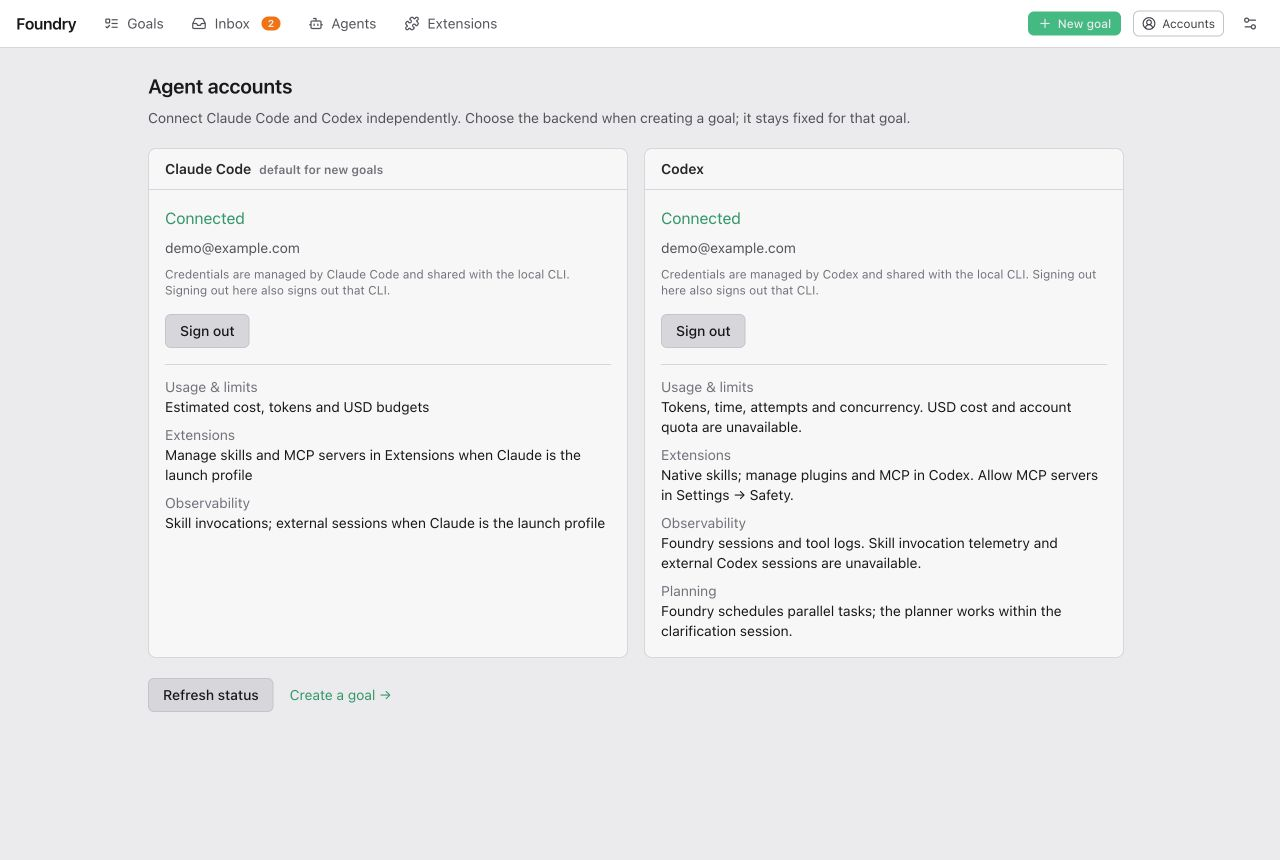
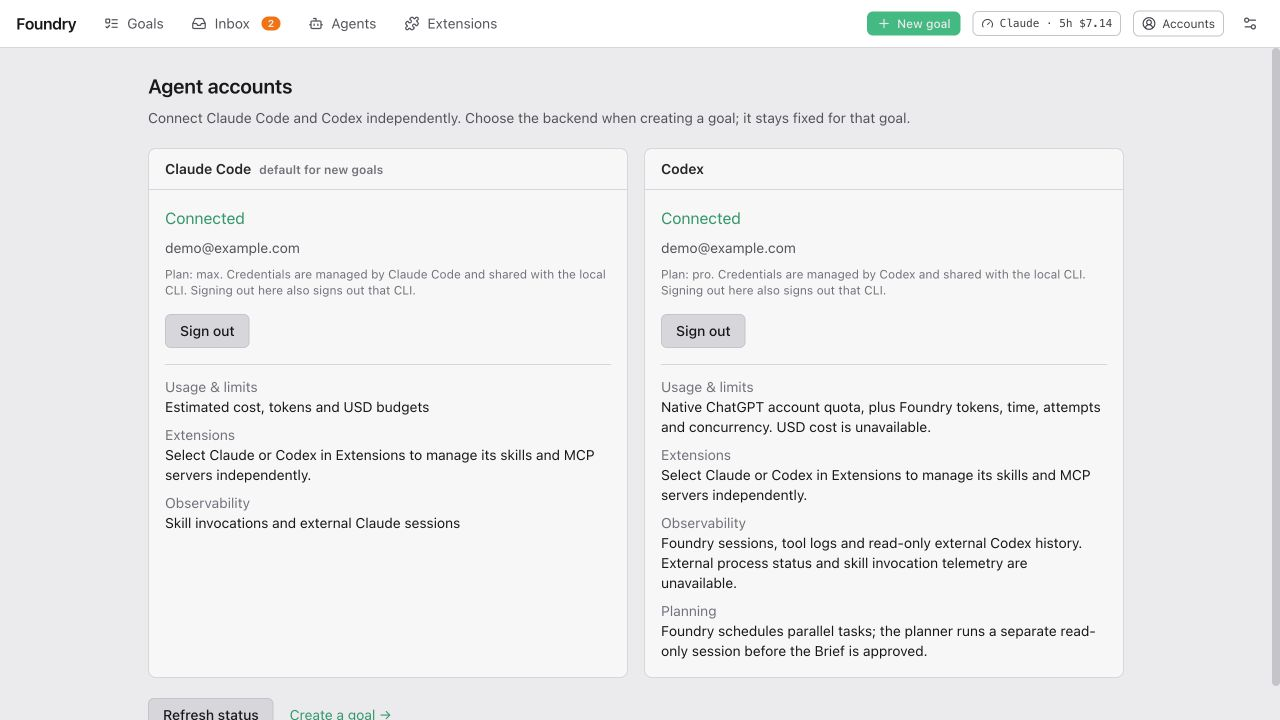
docs: document provider extensions and native account status
Explain independent setup, ChatGPT-only sign-in, account quota and read-only session history with bilingual guides, updated screenshots and remaining adapter limits.

diff --git a/CONTEXT.md b/CONTEXT.md
@@ -15,10 +15,10 @@ A user-set objective stated in natural language against a repository. A Goal is 
 The smallest unit of work carved out of a Goal during Clarify. Tasks form a DAG through `dependsOn` edges. A Task with no unfinished dependencies is *ready*. Fan-out, fan-in and pipeline are not separate concepts — they are shapes of the DAG.
 
 **Attempt**
-One Plan → Act → Observe pass at a Task, performed in a fresh Claude session. An Attempt is made of several sessions — the Worker's segments, the Task reviewer, possibly a Merger — each recorded with its model, cost and turns. A *retry* is simply the next Attempt, fed with the previous Attempt's Observation Report — unless the session can simply carry on (see Continuation). A **Merge Attempt** is an Attempt whose only job is to resolve a merge conflict between two Tasks.
+One Plan → Act → Observe pass at a Task, performed in a fresh session of the Goal's Agent backend. An Attempt is made of several sessions — the Worker's segments, the Task reviewer, possibly a Merger — each recorded with its model and the measurements its backend provides. A *retry* is simply the next Attempt, fed with the previous Attempt's Observation Report — unless the session can simply carry on (see Continuation). A **Merge Attempt** is an Attempt whose only job is to resolve a merge conflict between two Tasks.
 
 **Continuation**
-The next segment of the same Attempt: its Claude session is resumed with everything it already knows, instead of a fresh session that must understand the Task again. The engine continues an Attempt when its session was cut (engine restart, turn or cost cap, timeout) or when the Checks still fail but the segment made progress; a Continuation consumes no retry, and an Attempt is continued at most a few times before a genuine new Attempt (fresh session, Observation Report) takes over. A Merge Attempt's second try is a Continuation of its first.
+The next segment of the same Attempt: its session is resumed by the same Agent backend with everything it already knows, instead of a fresh session that must understand the Task again. The engine continues an Attempt when its session was cut (engine restart, an applicable session cap, timeout) or when the Checks still fail but the segment made progress; a Continuation consumes no retry, and an Attempt is continued at most a few times before a genuine new Attempt (fresh session, Observation Report) takes over. A Merge Attempt's second try is a Continuation of its first.
 
 **Follow-up**
 A Goal that continues an earlier, finished Goal of the same repository: B *follows* A, and A is *followed by* B; chains are allowed (A → B → C). A Follow-up is given what A asked for, what was understood and decided, and how it ended, as background for its Clarify; that background is copied when the Follow-up is created, so it survives A being deleted. It starts from the base branch when A's work is already there, otherwise from A's Goal branch — then A's changes travel in B's Delivery. A Goal can also be marked as a Follow-up afterwards, which records the relationship and nothing else.
@@ -35,7 +35,7 @@ The system never invents scope on its own: a Stretch Check exists only because t
 The evidence gathered after an Attempt acts: the results of the Task's Checks, the reviewer's verdict, and the list of changed files. The distilled form handed to the next Attempt is the **Observation Report**.
 
 **Reviewer**
-A Claude session that reads a diff and judges it. The *Task reviewer* is lightweight and reports blockers only; the *Goal reviewer* judges the whole Goal diff against the Must and Stretch Checks. Reviewer verdicts never override objective Check results.
+A session of the Goal's Agent backend that reads a diff and judges it. The *Task reviewer* is lightweight and reports blockers only; the *Goal reviewer* judges the whole Goal diff against the Must and Stretch Checks. Reviewer verdicts never override objective Check results.
 
 ## Clarify
 
@@ -76,7 +76,7 @@ The only way the system ever asks a human for anything after the Brief is approv
 1. a Task exhausted its retry budget with Must Checks still failing (including a failed Goal review);
 2. an action that would leave the local workspace (push, pull request, deploy, shared database, paid service);
 3. the Goal's cost or time budget was exceeded;
-4. the Claude runtime refused a tool call;
+4. the agent runtime refused a tool call;
 5. a Milestone landed and the Goal waits for the human to look (a Checkpoint);
 6. a Delivery stopped (failing checks it cannot fix, a rejected push, …), answered by retrying the Delivery or marking it delivered.
 
@@ -94,13 +94,13 @@ A push message sent to a Notification Channel the moment something happens the u
 A place outside the app where Notifications are sent — Telegram or Discord — configured by the user in Settings. Sending is the engine acting under the user's standing authorisation, exactly like Delivery: the model never sends anything.
 
 **Sign-in**
-How the engine gets a Claude session for its own machine. Normally the CLI opens a browser and finishes by itself; where there is no browser (a container, a remote host) it shows a link and a code instead, and the user pastes that code into the Setup page. The engine never sees the password or the token — Claude Code stores the credential.
+Authorising one Agent backend on the machine running Foundry. Each backend uses its native CLI login and owns its credentials independently. Claude can complete in a browser or accept a returned code in Foundry; Codex uses ChatGPT device authorisation, with the displayed code entered on the linked sign-in page. Codex API-key login is unsupported. Signing out also signs out that local CLI, without changing the other backend's account.
 
 **Boundary**
 The line between the local workspace and the outside world. Crossing it is always an Escalation.
 
 **Budget**
-The limits a Goal runs within: estimated cost, elapsed time, concurrent sessions, and Attempts per Task. Exceeding one is an Escalation, not a failure. Cost and time limits may be *unlimited*.
+The limits a Goal runs within: elapsed time, concurrent sessions, Attempts per Task and, where the backend reports it, estimated dollar cost. Exceeding one is an Escalation, not a failure. Cost and time limits may be *unlimited*. Codex has no enforceable dollar budget.
 
 **Budget Preset**
 How a Goal's Budget was chosen: *Auto* (no cap while clarifying; the Brief's estimate proposes the budget and the user confirms or edits it when approving), *Quick*, *Thorough*, *Unlimited*, or *Custom*. Auto is the default because most people cannot say in advance what a goal should cost — the estimate is the model's job.
@@ -156,7 +156,7 @@ simple, standard or complex — the Clarifier's rating of a Task, the human's to
 _Avoid_: routine / normal / hard (the first names) The last Attempt of a budget of two or more, and every Attempt the human grants beyond the budget, run on the Complex row before the Task is handed back.
 
 **Model Preset**
-A named choice of model for every action — Clarify, Planner, Simple / Standard / Complex tasks, merges, reviews, docs, triage, hints, style samples — with one table per goal nature (Code, Docs & research, Media). Claude and Codex have independent presets. Four ship for each provider (Max, Production, Balanced, Economy); they can be edited and reset, and custom presets can be added. Settings picks defaults per nature; a Goal may pick another at creation. Claude sessions read the current preset when they start. Codex captures model and reasoning effort for every role, including Housekeeping, with its fallback order when the Goal is created; later preset edits do not alter it. A goal-wide Codex effort overrides role efforts. Default model and CLI-default effort deliberately follow the native configuration.
+A named choice of model for every action — Clarify, Planner, Simple / Standard / Complex tasks, merges, reviews, docs, triage, hints, style samples — with one table per goal nature (Code, Docs & research, Media). Claude and Codex have independent presets. Four ship for each provider (Max, Production, Balanced, Economy); they can be edited and reset, and custom presets can be added. Settings picks defaults per nature; a Goal may pick another at creation. Claude sessions read the current preset when they start. Codex captures model and reasoning effort for every role, including Housekeeping, with its fallback order when the Goal is created; later preset edits do not alter it. A goal-wide Codex effort overrides role efforts. The Settings base model is resolved at creation; a remaining CLI-default model or effort follows native configuration.
 _Avoid_: strong / worker / cheap model, tier (the model tiers Presets replaced)
 
 **Interview**
@@ -174,7 +174,7 @@ A source the system consults to decide which parts of a repository are relevant 
 ## Skills
 
 **Skill**
-A packaged instruction set Claude Code can load (a `SKILL.md` directory). Foundry does not define skills; it sees the ones installed on the host, installs curated ones from its Catalog, and tells its Roles which to use.
+A packaged instruction set an Agent backend can load (a `SKILL.md` directory). Foundry does not define skills; it sees the supported skills installed for the selected backend, installs curated ones from its Catalog, and tells its Roles which to use.
 
 **Skill Source**
 Where an installed Skill comes from and who updates it: a GitHub repository managed by Foundry, by the community `skills` CLI, or by a Claude Code plugin; a gstack clone; a project directory; or a hand-installed copy whose origin is inferred by matching its contents against known sources. Skills of the same Source are updated together; a Skill whose bytes match an older version of its Source is *outdated*, one that matches no version is *modified*.
@@ -183,7 +183,7 @@ Where an installed Skill comes from and who updates it: a GitHub repository mana
 A user-level Skill that has the same name as a Skill provided by a plugin. Both load; prompts use the plugin's copy because it is the one that gets updated. Shadow copies are reported and can be moved to the trash in one click.
 
 **Workflow Skill**
-A Skill a Role is told to invoke for a kind of work — *must* or *prefer* — because the engine follows Matt Pocock's engineering workflow: `tdd` for features and refactors, `diagnosing-bugs` for bugs, `resolving-merge-conflicts` for the Merger, `code-review` for the Goal Reviewer. The engine records which Skills each session actually invoked; a missing mandated invocation is a note for the next Attempt, never a failure on its own.
+A Skill a Role is told to follow for a kind of work — *must* or *prefer* — because the engine follows Matt Pocock's engineering workflow: `tdd` for features and refactors, `diagnosing-bugs` for bugs, `resolving-merge-conflicts` for the Merger, `code-review` for the Goal Reviewer. Claude invocation telemetry records which Skills a session invoked; a missing mandated invocation is a note for the next Attempt, never a failure on its own. Codex reads native skill instructions without invocation telemetry, so compliance is assessed from the work and tests rather than a missing event.
 
 **Task Kind**
 The nature of a Task — feature, bug, refactor, research or chore — set in the Brief. It selects the Workflow Skills the Worker is asked to follow.
@@ -195,32 +195,32 @@ The area a Task works in — frontend, backend, fullstack, data, mobile, infra, 
 The one design skill set the engine hands to UI work (frontend / fullstack Scenarios): ui-ux-pro-max, Anthropic's frontend-design, impeccable, bencium, garden or taste — or none. Packs are mutually exclusive: the Worker gets the chosen pack as a MUST and the Goal Reviewer its review counterpart; the others stay invisible even when installed.
 
 **Project Skills**
-Skills matched to a repository's own stack (React, Tailwind, Supabase…) that autoskills installs into a Goal's workspace after the Brief is approved. They live in the workspace's `.claude/skills`, are git-excluded so they never reach a commit, and are listed to every Worker of that Goal. An empty repository has no stack to detect yet, so the install is retried after each Task lands until a stack manifest exists.
+Skills matched to a repository's own stack (React, Tailwind, Supabase…) that autoskills installs into a Goal's workspace after the Brief is approved. They use the Goal's native skill location (`.claude/skills` for Claude or `.agents/skills` for Codex), are git-excluded so they never reach a commit, and are copied into task workspaces and listed to every Worker of that Goal. An empty repository has no stack to detect yet, so the install is retried after each Task lands until a stack manifest exists.
 
 **Model Registry**
-What this machine has learned about model names: which id a requested name (`fable`, `opus`, a pinned id) resolved to, and when it last worked or failed. Learned from sessions, never hard-coded; a new model family is listed once it has been used (or tested) here.
+What this machine has learned about a backend's model names: native catalog entries, which id a requested name resolved to, and when it last worked or failed. A discovered model is not proof of account access; an explicit Test checks a model by running a session.
 
 **Fallback**
 What the engine does when a session's model is unavailable: re-run the same session with the next model of the configured chain and remember the replacement on the Goal, so its later sessions skip the dead model; only when the whole chain fails does the Goal escalate.
 
 **Housekeeping model**
-The model of the engine's one-turn chores — classifying a Goal's nature, summarising a log, probing the usage limit. The only model not set by a Model Preset.
+The model of the engine's short chores — classifying a Goal's nature or summarising a log. Claude has a separate Housekeeping setting, also used for its usage probe. Codex includes Housekeeping in its Model Preset; reading Codex account quota requires no model session.
 _Avoid_: cheap tier, cheap model
 
 **Effort**
-How hard every session of a Goal thinks, from low to max — a knob of the Claude runtime, chosen when the Goal is created (or its Settings default). Independent of which model runs.
+The requested reasoning strength of a session. Supported values depend on the backend and model. A Goal-wide choice overrides each role's setting; Codex can instead use the efforts captured in its Model Preset, with a role's CLI default delegated to native configuration.
 
 **Simple mode**
 A Goal viewed by someone who does not want the machinery: one plain-language Brief (what the system understood, what it will build, the questions only they can answer, the assumptions they can veto, the price) and a progress view (how far, what it costs, what needs them). The engine underneath is the same; Expert view — every control — is one click away on any Goal, and a Goal's mode is just which view it opens in.
 
 **Discipline**
-How hard the engine pushes an engineering practice on its sessions. For TDD: *required* (the Worker must invoke the skill and the Reviewer is told when it did not), *preferred* (suggested only), or *off* (never mentioned). Set per Goal, overridable per Task; Tasks in the docs, infra, research, image or video Scenarios never carry a TDD mandate, and the TDD rules only apply to feature and refactor Tasks. Simple-mode Goals start with *preferred*.
+How hard the engine pushes an engineering practice on its sessions. For TDD: *required* (the Worker must follow the skill), *preferred* (suggested only), or *off* (never mentioned). Claude's Reviewer can also receive missing-invocation evidence; Codex is judged from the work and tests because invocation telemetry is unavailable. Set per Goal, overridable per Task; Tasks in the docs, infra, research, image or video Scenarios never carry a TDD mandate, and the TDD rules only apply to feature and refactor Tasks. Simple-mode Goals start with *preferred*.
 
 **Settings**
 The engine's user-editable configuration: concurrency, models, session caps, workflow profile, Design Pack, autoskills, review and delivery defaults, tools, safety limits. A saved value beats an environment variable, which beats the default; most changes apply immediately, a few only after the engine restarts.
 
 **MCP Server**
-A program that gives Claude Code extra tools (library docs, a browser, web search, a mail account). Foundry sees the ones configured on the host (the user's own, those a plugin ships, claude.ai connectors), installs curated ones from its MCP catalog at the user's scope, and lets a Goal use only the servers the user **allowed in goals**, and only in the sessions that do the work.
+A program that gives a coding agent extra tools (library docs, a browser, web search). Each backend owns its native configuration and independent Allowed in goals policy. Foundry manages Claude servers/connectors and Codex user-configured stdio/HTTP servers through their respective native clients. Only work-performing sessions receive the selected backend's allowed prefixes.
 
 ## Goal natures
 
@@ -263,21 +263,21 @@ Re-indexing the knowledge graph (graphify, and gitnexus when installed) where th
 The one blocking Question a Brief carries when the repository is empty: there are no facts to discover, so the stack is the human's Decision. It offers 2–4 concrete options with the Clarifier's recommendation first; the plan assumes the recommendation, and the first Task scaffolds the chosen stack.
 
 **Usage Pause**
-The engine's reaction to a Claude usage limit (5-hour or weekly window): no new sessions start, Goals stay exactly where they are, and everything resumes by itself when the limit resets — surviving engine restarts. Visible as a banner and on the Usage page; never an Escalation.
+The engine's reaction to one backend's usage limit: no new sessions start on that backend while its Goals keep their state. Other backends can continue. A reported reset schedules the next retry; without one, Codex retries after a short delay that does not claim the account has recovered. The pause survives engine restarts and is visible as a banner and on the Usage page; it is never an Escalation.
 
 ## Agents monitor
 
 **Agent Session**
-One Claude Code process's conversation on this machine, headless or interactive — whoever started it. The Agents page shows every Agent Session, read live from what Claude Code itself records; Foundry stores nothing about them.
+One agent conversation on this machine, headless or interactive — whoever started it. The Agents page combines Foundry's own session state with recent native Claude and Codex history, labels the backend and bounds the number of records. External history is read without resuming or modifying the session.
 
 **Session Source**
 Who started an Agent Session: *Foundry* (the engine spawned it for a Goal) or *external* (the user opened it themselves — terminal, VS Code, elsewhere). Only Foundry-sourced sessions can be stopped from the Agents page; external ones are watched, never touched.
 
 **Session Status**
-*Busy* — the session produced output within the last minute (a Foundry in-flight session is always busy). *Idle* — the process is alive but waiting for input. *Finished* — the process is gone; the session stays visible for a day. The header counts only busy sessions, so it is quiet when nothing is working.
+*Busy* — the session produced output within the last minute (a Foundry in-flight session is always busy). *Idle* — the process is alive but waiting for input. *Finished* — the process is gone; the session stays visible for a day. *Unknown* — native history cannot establish the external process's liveness, as with external Codex sessions and their children; recent activity or a completed turn does not prove the process is running or finished. The header pill counts only known busy sessions.
 
 **Subagent**
-A helper agent a session spawns for a sub-task (the Task tool). It has its own conversation and its own context window, and is shown nested under the session that spawned it.
+A helper agent a session spawns for a sub-task. It has its own conversation and is shown nested under the session that spawned it when the native history identifies that relationship. External Codex children can be read with unknown liveness; native Codex delegation remains disabled in Foundry-managed sessions.
 
 ## Release & update
 
@@ -301,3 +301,6 @@ The fallback when Self-Update is impossible: a popup with the exact commands for
 
 **Drain**
 Refusing new sessions while active Agents finish, so an update never kills running work. The human may override and update immediately.
+
+**Account quota**
+The native account’s reported allowance and usage windows, including activity outside Foundry. Separate from Foundry’s local token totals. Unknown is not zero; a percentage or reset timestamp does not prove that another session is allowed.

diff --git a/docs/operate/codex.md b/docs/operate/codex.md
@@ -49,9 +49,9 @@ Saved settings override the corresponding environment defaults. Binary and home 
 
 - Readers and reviewers use the read-only sandbox; workers use workspace-write. Workers can access the network for dependency installation and tests. Foundry's own checks and delivery still run on the host.
 - Foundry supplies a session canary and a tool hook that checks the existing push/PR/deploy/publish boundary, the MCP allowlist and read-only roles. The runner waits for the canary and fails if it never appears. `--dangerously-bypass-hook-trust` is needed for these generated per-session hooks; other enabled user/project/plugin hooks also run under that invocation, so use reviewed hook sources. OS sandboxing remains enabled. Like the existing Claude boundary hook, this is a command guard, not a complete security boundary for arbitrary repository code.
-- Codex native configuration, project `AGENTS.md` and installed skills remain available. Foundry lists user skills from the Codex home and shared `~/.agents/skills`, plus `.agents/skills` in a selected project. Shared skill directories cannot be uninstalled through Foundry. The Claude plugin manager and Claude-specific autoskills installer are not used; manage Codex plugins and MCP servers through Codex. Permit MCP servers with their `mcp__server` prefixes in Settings → Safety.
+- Codex native configuration, project `AGENTS.md` and installed skills remain available. Foundry lists user skills from the Codex home and shared `~/.agents/skills`, plus `.agents/skills` in a selected project. Shared skill directories cannot be uninstalled through Foundry. Setup and Extensions select their backend independently of the launch profile. Codex autoskills uses `.agents/skills`, excludes new installed skill contents from git and copies them into task worktrees. Native Codex plugins remain managed in Codex. Extensions → Codex → MCP servers manages native stdio and streamable HTTP servers, OAuth, connection checks and per-server permissions. Claude connectors and legacy SSE are not translated. Codex permissions live in `workflow.codexMcpAllowed` and never inherit the Claude allow list.
 - Foundry runs a separate read-only Codex Planner session using the selected Planner model and effort. The Clarifier reviews its task proposal before producing the Brief. This is Foundry-managed orchestration; native Codex multi-agent delegation remains disabled. Foundry does not pass Claude's `--agents` definitions or rely on Claude's Skill tool.
-- Codex JSONL reports token usage, but no USD cost or account quota. Foundry shows token activity and marks dollar cost as unavailable. **USD caps cannot be enforced for Codex.** Use duration, concurrency, attempts and tool-call limits. The existing turn-cap setting bounds tool calls for Codex; it is not a model-turn count. CLI/API legacy numeric cost fields remain zero when cost is unreported.
+- Codex JSONL reports token usage but no USD cost. Foundry reads ChatGPT account identity and quota separately through the native app-server. Usage shows all returned quota buckets, known windows and reported reset times beside local activity. Refresh reads account metadata without inference; ordinary polling caches it for 60 seconds. Missing fields stay unknown and only the explicit ordinary-usage allowance reports availability. A percentage or past reset time never proves recovery. Foundry marks dollar cost as unavailable. **USD caps cannot be enforced for Codex.** Use duration, concurrency, attempts and tool-call limits. The existing turn-cap setting bounds tool calls for Codex; it is not a model-turn count. CLI/API legacy numeric cost fields remain zero when cost is unreported.
 - Structured output, live tool events, transcript reopening, session resume, cancellation, wall-clock timeout and idle timeout use the native Codex CLI protocol.
 
 ## Docker
@@ -74,6 +74,8 @@ Protocol references: [non-interactive execution](https://learn.chatgpt.com/docs/
 
 ## Product capabilities
 
-See the bilingual [first-goal guide](../guide/your-first-goal.md), [model settings guide](../guide/settings.md#codex-presets-and-models) and [accounting guide](../guide/costs-and-usage.md). Account and model APIs accept `?provider=claude|codex`; `/api/accounts` reports both account states and adapter capabilities. `POST /api/goals` accepts `provider`, `modelPreset`, optional `codexModel` for an explicit all-role override, and optional `effort`. Usage is filtered with the same provider query. Old goals receive an append-only provider assignment event before work starts. Do not run an older binary against a directory containing mixed-provider goals.
+See the bilingual [first-goal guide](../guide/your-first-goal.md), [model settings guide](../guide/settings.md#codex-presets-and-models) and [accounting guide](../guide/costs-and-usage.md). Account, model, Setup, Skills and MCP APIs accept `?provider=claude|codex`; omitted provider queries use the launch default. `/api/accounts` reports both account states and adapter capabilities. `POST /api/goals` accepts `provider`, `modelPreset`, optional `codexModel` for an explicit all-role override, and optional `effort`. Usage is filtered with the same provider query. Old goals receive an append-only provider assignment event before work starts. Do not run an older binary against a directory containing mixed-provider goals.
 
-Remaining adapter limits are explicit: native Codex subagents, Foundry-managed Codex plugin/MCP installation, external Codex session import, USD accounting, exact account quota and Skill-tool telemetry are unavailable. Role presets and the separate Foundry Planner do not imply those native capabilities have been added.
+Agents includes recent external Codex conversations through bounded, cached native history requests without resuming or changing them. Foundry-owned sessions are deduplicated. External Codex sessions and child sessions have **unknown** process status because history does not establish liveness. Only Foundry-owned sessions can be stopped.
+
+Remaining adapter limits are explicit: native Codex subagent creation inside Foundry sessions, Foundry-managed Codex plugin installation, USD accounting and skill-invocation telemetry are unavailable. Quota fields depend on the installed native CLI and signed-in account; the adapter does not invent missing limits. Role presets and the separate Foundry Planner do not imply those native capabilities have been added.

diff --git a/docs/guide/settings.md b/docs/guide/settings.md
@@ -8,7 +8,7 @@
 
 **Engine (install)** exposes both CLI paths and homes. The **Default agent backend** is chosen at launch; it does not restrict the **New goal** selector. Keep the original launch profile when opening an existing data directory so legacy records retain their provenance. Existing separate directories are not automatically merged.
 
-Extensions management currently follows the launch profile. Codex goals load native skills from their own home/shared `.agents/skills`; project skills belong in `.agents/skills`. Manage Codex plugins and MCP in Codex itself. Claude's autoskills installer does not run for Codex. Skill invocation telemetry is unavailable for Codex, so reviewers must judge the work rather than infer a skipped invocation.
+**Setup** and **Extensions** each let you select **Claude Code** or **Codex**, independently of the launch profile. Installs, updates, trash, OAuth and MCP permissions target that selection. Codex loads its home skills plus shared `.agents/skills`; its per-goal autoskills installer writes `.agents/skills` and copies them into task worktrees without committing them. Native Codex plugins remain managed in Codex. Skill invocation telemetry is unavailable for Codex, so reviewers judge the work rather than infer a skipped invocation.
 
 
 Open the ⚙ menu at the right of the top bar and choose **Settings**. The sections are listed on the left; this page follows them in order and explains, in plain words, the controls you might want to touch and when. The exact keys, defaults and environment variables are in the operator reference, [configuration.md](../operate/configuration.md).
@@ -171,7 +171,7 @@ When to change: raise the timeout or Claude cost cap if big tasks keep getting c
 
 ## Skills
 
-Skills are packaged instructions Claude Code can follow. Here you choose which ones Foundry hands to its sessions.
+Skills are packaged instructions the coding agent can follow. **Install skills for** selects which backend's installation status and actions you see; workflow pack choices are shared.
 
 - **Profile**: **mattpocock (mandated + observed)** (default) tells workers which working method to follow (tests first for features, diagnose first for bugs) and records whether they did. **plain (hint only)** only mentions them.
 - **Setting sources**: which Claude Code settings sessions load. Leave empty.
@@ -182,7 +182,11 @@ The **Extensions** page in the top bar holds your skills and your MCP servers. I
 
 ### MCP servers
 
-MCP servers give Claude Code tools beyond files and the shell: current library docs, a real browser, web search, your mail. The **Extensions** page has an **MCP servers** tab that lists the servers Claude Code loads for your account: the ones you installed (**yours**), the ones a plugin brings (**plugin**) and your claude.ai connectors (**claude.ai**). **Check** connects to each one and shows whether it works; it is not automatic because it starts every server.
+![Codex MCP servers — demonstration data](images/codex-extensions-mcp.png)
+
+Select a backend at the top of **Extensions** before opening **MCP servers**. Codex servers use its native CLI configuration; **Check** opens a fresh native connection and discovers tools without running inference. Codex supports stdio and streamable HTTP, including HTTP OAuth sign-in; legacy SSE is unavailable. Native user-configured servers can be added, replaced and removed here. Running sessions keep their existing connections; new sessions see configuration changes. Claude and Codex have independent **Allowed in goals** switches, and Codex starts with no allowed servers.
+
+The following connector and plugin details describe the Claude tab. MCP servers give Claude Code tools beyond files and the shell: current library docs, a real browser, web search, your mail. The **Extensions** page has an **MCP servers** tab that lists the servers Claude Code loads for your account: the ones you installed (**yours**), the ones a plugin brings (**plugin**) and your claude.ai connectors (**claude.ai**). **Check** connects to each one and shows whether it works; it is not automatic because it starts every server.
 
 Some servers need an account before they work. A claude.ai connector (Gmail, Google Drive, …) has a **Connect** button: it opens claude.ai, where you authorize it with the account it should use; Claude Code and Foundry share that connection. A server reached by URL has **Sign in**: a browser opens on the computer running Foundry, or, when there is none (Docker), you open the link yourself and paste back the address the browser ends on. If the sign-in cannot finish in Foundry, the window shows the command to run in your own terminal instead (for example `claude mcp login context7`), with a copy button. After **Check**, a server that still needs this shows **needs auth** and a **Set up** button.
 

diff --git a/docs/develop/adr/0019-provider-scoped-extensions-and-native-status.md b/docs/develop/adr/0019-provider-scoped-extensions-and-native-status.md
@@ -1,0 +1,19 @@
+# ADR-0019: Provider-scoped extensions, native account quota and read-only history
+
+**Status:** accepted · 2026-10-04 · amends ADR-0016 and ADR-0017
+
+## Decision
+
+Scope Setup, Skills and MCP operations explicitly by provider, independent of the launch profile. Preserve omitted-provider API requests as launch-default requests. Each native home owns its configuration and credentials. Codex authentication supports ChatGPT only; account status uses native metadata and never reads credential files directly.
+
+Use independent Claude and Codex MCP allow lists. Existing Claude permissions stay in `workflow.mcpAllowed`; `workflow.codexMcpAllowed` starts empty. Worker, merger, documenter and style-sample sessions use their goal's provider policy. Codex MCP management delegates configuration and OAuth to the native CLI. Connection checks use native MCP discovery without inference. Legacy SSE and Claude account connectors are not translated into Codex configuration.
+
+Read ChatGPT account identity and quota through bounded native app-server requests. Cache quota for 60 seconds (15 seconds for errors), coalesce readers, and discard it when account credentials change. An explicit refresh bypasses cached values. Prefer all native quota buckets over the legacy single bucket. Preserve unknown permission, windows and resets. Only the explicit native allowance describes reported ordinary usage availability; percentages and reset timestamps never imply recovery. Local session totals remain separate, and USD costs remain unavailable.
+
+Browse external Codex history read-only using native state-database listings and paginated history requests. Do not resume threads or infer external process liveness from a newly launched app-server. Label it unknown, bound retrieval, expose stale/error warnings and deduplicate every known Foundry session and native child. Foundry can stop its own sessions only.
+
+Run autoskills with the selected provider. Codex project skills live in `.agents/skills` and are copied into task worktrees. Never stage deletion of existing tracked native skill links as part of legacy Claude symlink cleanup.
+
+## Trade-offs
+
+The UI shares workflows, but native protocols retain their distinct capabilities. Native status depends on an installed compatible CLI; unavailable or malformed responses become explicit unknown/error states. Native subprocesses use deadlines, output bounds and process-group cleanup so cancellation cannot leave sidecars running. Codex plugins and skill invocation telemetry remain outside this adapter, and native subagent creation remains disabled inside Foundry-managed sessions.

diff --git a/docs/guide/your-first-goal.md b/docs/guide/your-first-goal.md
@@ -8,9 +8,12 @@
 
 ![New goal role assignments](images/codex-new-goal-presets.png)
 
+
+![Codex setup — demonstration data](images/codex-setup.png)
+
 ## Agent accounts and backend
 
-Open **Accounts** in the header to see Claude Code and Codex separately. **Sign in to Codex** uses ChatGPT device authorization; enter the displayed code on the linked page. **Sign in to Claude Code** uses Claude's native login. Credentials belong to the local CLI: signing out here also signs out that CLI, but does not sign out the other provider. Foundry refuses sign-out while work is active.
+Open **Accounts** in the header to see Claude Code and Codex separately. **Sign in to Codex** uses ChatGPT device authorization; enter the displayed code on the linked page. **Sign in to Claude Code** uses Claude's native login. Credentials belong to the local CLI: signing out here also signs out that CLI, but does not sign out the other provider. Foundry refuses sign-out while work is active. Codex supports ChatGPT sign-in only; API-key login is not used. The account card shows the native email and plan when available.
 
 On **New goal**, choose **Agent backend** before creating the goal. Both providers can run in one Foundry instance. The selected backend stays fixed through clarification, workers, retries, reviews and delivery assistance; sessions never resume on another provider. Each backend has independent model presets under **Models**. Codex captures the preset's role models, reasoning efforts and fallback order when you create the goal.
 
@@ -23,7 +26,7 @@ This page walks through the **New goal** form from top to bottom. Most fields ca
 
 ### Check the Setup page
 
-Open the ⚙ menu at the right of the top bar and choose **Setup** (a red dot on ⚙ means something is still missing). Foundry checks what it needs on this computer and shows a green or red line for each:
+Open the ⚙ menu at the right of the top bar and choose **Setup** (a red dot on ⚙ means something is still missing). Select **Claude Code** or **Codex** on Setup. The checks, sign-in, fixes and recommended skill installation all target that backend; **Create your first goal** preserves the selection. Foundry shows a green or red line for each:
 
 | Check | What it is | If it is red |
 |---|---|---|

diff --git a/docs/develop/adr/README.md b/docs/develop/adr/README.md
@@ -20,6 +20,7 @@ record is never rewritten when a later decision changes it; its status says what
 | [0013](0013-clarify-interview-in-rounds.md) | Clarify interviews the human in rounds | accepted · 2026-09-14 |
 | [0014](0014-model-presets-per-goal-nature.md) | Model presets per goal nature | accepted · 2026-09-24 · supersedes the tier parts of ADR-0006; amended by ADR-0018 |
 | [0015](0015-bring-merged-work-to-the-local-checkout.md) | Bring merged work to the local checkout, then tidy up | accepted · 2026-09-25 · amends the user-only base-branch rule |
-| [0016](0016-mcp-servers-allowed-per-server.md) | MCP servers: listed from Claude Code's config, installed at user scope, allowed in goals per server | accepted · 2026-09-28 |
-| [0017](0017-goal-provider-and-account-isolation.md) | Fixed goal providers, independent accounts and capability-aware reporting | accepted · 2026-10-04 · amended by ADR-0018 |
+| [0016](0016-mcp-servers-allowed-per-server.md) | MCP servers: listed from Claude Code's config, installed at user scope, allowed in goals per server | accepted · 2026-09-28 · amended by ADR-0019 |
+| [0017](0017-goal-provider-and-account-isolation.md) | Fixed goal providers, independent accounts and capability-aware reporting | accepted · 2026-10-04 · amended by ADR-0018 and ADR-0019 |
 | [0018](0018-codex-role-presets-and-model-discovery.md) | Codex role presets, native model discovery and captured goal settings | accepted · 2026-10-04 |
+| [0019](0019-provider-scoped-extensions-and-native-status.md) | Provider-scoped extensions, native account quota and read-only history | accepted · 2026-10-04 |

diff --git a/docs/guide/your-first-goal.zh.md b/docs/guide/your-first-goal.zh.md
@@ -6,9 +6,14 @@
 
 ![新目标的角色配置](images/codex-new-goal-presets.png)
 
+
+![Codex 初始化检查 — 演示数据](images/codex-setup.png)
+
 ## 账户与执行后端
 
-点击顶栏 **Accounts**，分别查看 Claude Code 和 Codex。**Sign in to Codex** 使用 ChatGPT 设备授权：在链接页面输入显示的验证码；**Sign in to Claude Code** 使用 Claude 原生登录。凭据与本机 CLI 共用，在这里退出也会退出对应 CLI，但不会影响另一个提供商。执行期间不能退出登录。
+点击顶栏 **Accounts**，分别查看 Claude Code 和 Codex。**Sign in to Codex** 使用 ChatGPT 设备授权：在链接页面输入显示的验证码；**Sign in to Claude Code** 使用 Claude 原生登录。凭据与本机 CLI 共用，在这里退出也会退出对应 CLI，但不会影响另一个提供商。执行期间不能退出登录。Codex 只支持 ChatGPT 登录，不使用 API-key 模式；原生 CLI 提供邮箱和方案时会显示在账户卡片。
+
+**Setup** 可选择 **Claude Code** 或 **Codex**；检查、登录、修复及技能安装均针对所选后端。**Create your first goal** 会保留该选择。
 
 创建任务时，在 **Agent backend** 选择后端。同一 Foundry 实例可以运行两种后端；选定后，澄清、执行、重试、审核等会话始终使用该后端，不会把会话交给另一种 CLI 恢复。两种后端在 **Models** 下各有独立预设。Codex 创建任务时会保存预设中的各角色模型、推理强度和备用模型顺序。
 

diff --git a/docs/guide/while-it-runs.md b/docs/guide/while-it-runs.md
@@ -4,7 +4,9 @@
 
 ## Provider-aware reporting
 
-Codex task details and activity mark dollar costs, model-turn counts and skill telemetry as unavailable. Its live tool logs, saved transcripts and Foundry sessions remain visible. The Agents monitor does not discover unrelated external Codex sessions. Claude's existing external-session monitor remains scoped to the launch profile.
+Codex task details and activity mark dollar costs, model-turn counts and skill telemetry as unavailable. Its live tool logs, saved transcripts and Foundry sessions remain visible. **Agents** also shows recent external Claude and Codex sessions, labelled by backend. External Codex history is read-only and bounded to recent records; **status unknown** means Foundry cannot verify that external process's liveness. It does not mean idle or finished. Native read failures appear as warnings, and external sessions cannot be stopped here.
+
+A Codex goal's **Codex models** card shows the saved role table, goal-wide overrides and fallback order. Other captured goal-type tables can also be inspected. Later changes to Settings never rewrite this snapshot; legacy goals without a snapshot are labelled explicitly.
 
 
 After you approve the Brief, Foundry works on its own. You can close the browser; the work continues on your computer. This page explains the goal page, so you can follow along when you want to.

diff --git a/docs/guide/costs-and-usage.md b/docs/guide/costs-and-usage.md
@@ -6,6 +6,8 @@
 
 ## Codex accounting
 
+**Codex account quota** reads the signed-in ChatGPT account through the native CLI, separately from local activity totals. It shows every returned quota group with used percentage, window duration and reported reset time. **Refresh quota** reads metadata without inference; ordinary polling uses a 60-second cache. **Reported ordinary usage allowance** is the CLI's explicit allowed/blocked/unknown signal. Percentages and past reset times do not prove recovery. Missing quota or reset data stays unknown; a read failure is shown rather than replaced with zero. Accounts also shows the email and plan when the native CLI supplies them.
+
 Use the **Usage backend** selector to view each provider independently. Counts include only Foundry sessions. Codex's 5-hour and 7-day charts show activity, not subscription quota or remaining allowance. Dollar cost, turn count and skill-invocation telemetry are unavailable in this adapter; unavailable never means free or unused.
 
 Codex USD caps are removed on creation, Brief approval and budget increases. Timeouts, tool-call allowance, attempts and concurrency remain effective. Its turn-cap setting counts tool calls, not model turns. A detected usage-limit error pauses only that provider; without a reset signal Foundry retries after five minutes, which is not a claim that the account quota has reset.

diff --git a/docs/guide/costs-and-usage.zh.md b/docs/guide/costs-and-usage.zh.md
@@ -4,6 +4,8 @@
 
 ## Codex 用量
 
+**Codex account quota** 通过原生 CLI 读取已登录 ChatGPT 账户的额度，与本机活动统计分开。卡片展示返回的所有额度分组、已用百分比、时间窗口和报告的重置时间。**Refresh quota** 只读元数据，不运行推理；普通轮询缓存 60 秒。**Reported ordinary usage allowance** 忠实显示原生的 allowed／blocked／unknown 信号，不能根据百分比或已过去的重置时间推断恢复。缺失的额度和重置时间保持未知；读取失败不会伪装成零用量。原生 CLI 提供邮箱和订阅方案时，Accounts 也会显示。
+
 通过 **Usage backend** 分别查看两种后端的用量，仅统计 Foundry 启动的会话。Codex 的 5 小时和 7 天图表表示活动记录，不代表订阅额度或剩余额度。当前适配器不提供美元费用、模型回合数及技能调用记录；“不可用”不代表免费或未使用。
 
 Codex 在创建、批准 Brief、提高预算时都会移除美元上限。超时、工具调用次数、尝试次数和并发限制仍然有效。回合上限在 Codex 中限制工具调用次数。检测到限流只暂停对应后端；没有重置时间信号时，五分钟后重试，不代表账户额度已恢复。

diff --git a/docs/guide/while-it-runs.zh.md b/docs/guide/while-it-runs.zh.md
@@ -2,7 +2,9 @@
 
 ## 按后端显示执行信息
 
-Codex 任务详情和活动记录将美元费用、模型回合数及技能调用标为不可用；实时工具日志、保存的记录及 Foundry 会话仍可查看。Agents 页面尚未发现 Foundry 之外的 Codex 会话，Claude 外部会话监控仍跟随启动配置。
+Codex 任务详情和活动记录将美元费用、模型回合数及技能调用标为不可用；实时工具日志、保存的记录及 Foundry 会话仍可查看。**Agents** 也会显示近期的 Claude 与 Codex 外部会话，并标注后端。Codex 外部历史只读且限制近期记录量；**status unknown** 表示无法核实外部进程是否还在运行，不表示空闲或已完成。读取失败会显示警告，外部会话不能在 Foundry 停止。
+
+Codex 任务的 **Codex models** 卡片展示创建时保存的角色模型、强度覆盖与备用顺序，也可查看其他任务类型的快照。以后修改 Settings 不会改写它；没有快照的旧任务会明确标示。
 
 
 > [English](./while-it-runs.md) · 中文
